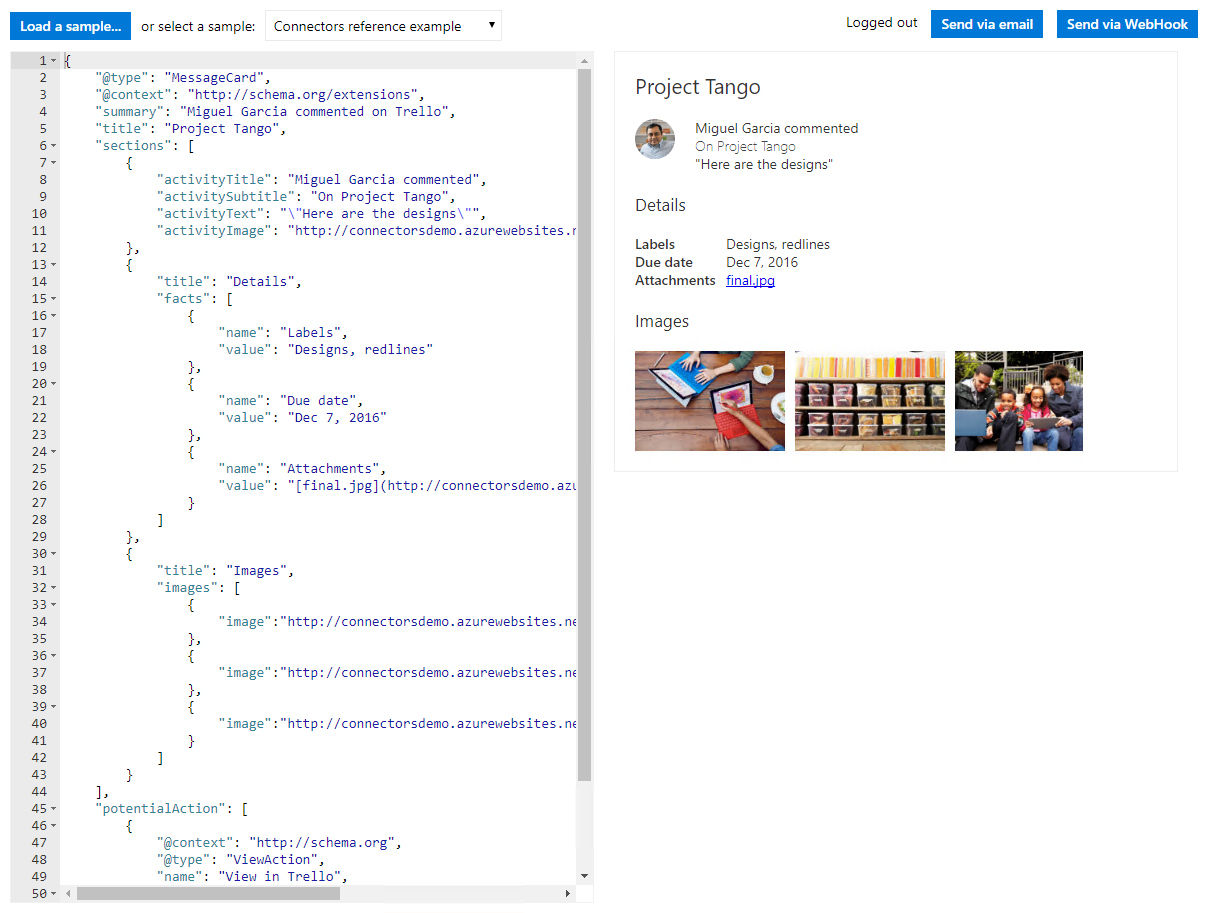
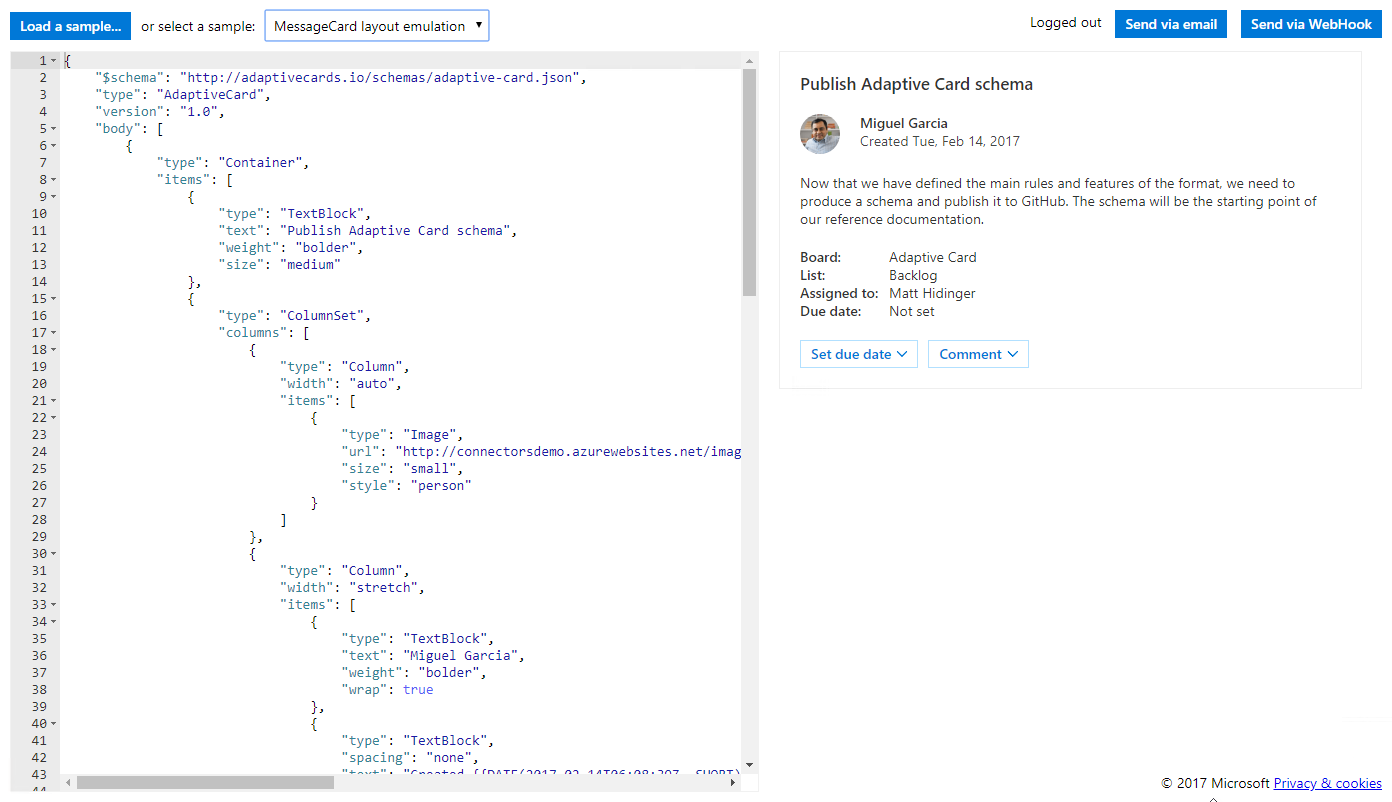
2018q4qa-connactmsg-m01:
Update to md files to clean up typos and errors, as well as fix links to use standard MD language.  Updated two screen shots because of changes to message card playground (MCP), included note about adding "summary" property to sample cards in MCP if the webhook test throws an error, due to the new sample adaptive cards not having that property in them.

diff --git a/ConnectorActionableMsgs/01 Build a basic Connector/Lab.md b/ConnectorActionableMsgs/01 Build a basic Connector/Lab.md
@@ -4,9 +4,9 @@ In this lab, you will learn the steps to create and send connector cards to Offi
 
 ## In this lab
 
-1. [Create a card payload and submit it via an incoming webhook](#exercise1)
-1. [Add functionality to an existing web site](#exercise2)
-1. [Sideload connector to Microsoft Teams](#exercise3)
+1. [Create a card payload and submit it via an incoming webhook](#Exercise_1:_Create_a_card_payload_and_submit_it_via_an_incoming_webhook)
+1. [Add functionality to an existing web site](#Exercise_2:_Add_connector_functionality_to_existing_website)
+1. [Sideload connector to Microsoft Teams](#Exercise_3:_Sideload_the_Connector_to_Microsoft_Teams)
 
 ## Prerequisites
 
@@ -25,8 +25,6 @@ This lab uses [ngrok](https://ngrok.com) for tunneling publicly-available HTTPS 
 #### Code editors
 
 The steps and code samples in this lab use [Visual Studio 2017](https://www.visualstudio.com/) for websites using C#.
-
-<a name="exercise1"></a>
 
 ## Exercise 1: Create a card payload and submit it via an incoming webhook
 
@@ -60,8 +58,12 @@ In this exercise, you will copy an example card from the Message Card Playground
 
     ![Screenshot of message card sample](Images/Exercise1-04.png)
 
-    > Note: The image in this lab uses the **Connectors reference example**, but that is not required.
+    > Note: The image in this lab uses the **MessageCard layout emulation**, but that is not required.
 
+    >Note: If you get an error that the post request failed, "Error: Summary or Text is required". Please add the following property to the JSON sample right under the "version" property and before the "body" property.
+    ```html
+    "summary", "Your Subject Goes Here"
+    ```
 1. After selecting an example, choose **Send via WebHook**.
 1. Enter the URL copied earlier from the Group Connector configuration panel.
 1. Select **OK**. The card will display in the Microsoft Outlook group conversation display. (You may have to select the **New Activity** indicator to see the card.)
@@ -85,8 +87,6 @@ It is not necessary to use the playground website to send test messages. Any fac
     ![Screenshot of PowerShell command](Images/Exercise1-06.png)
 
     > The `Invoke-RestMethod` cmdlet will return **1** to indicate success.
-
-<a name="exercise2"></a>
 
 ## Exercise 2: Add connector functionality to existing website
 
@@ -298,7 +298,7 @@ This exercise will add connector functionality to an existing website. First, a 
 
 1. Press **F5** to build and run the project. Verify that the setup page is available by appending `/connector/setup` to the localhost URL. In this example `http://localhost:20455/connector/setup`.
 
-    ![Screenshot of project URL](Images/Exercise2-03.png)
+    ![Screenshot of setup page](Images/Exercise2-03.png)
 
 1. Stop debugging.
 
@@ -310,11 +310,7 @@ This exercise will add connector functionality to an existing website. First, a 
 
     >Note: If this were a real solution you would want to enable SSL Encryption (by changing the value to true) because the connector requires it.  During testing ngrok is handling the HTTPS->HTTP redirection.
 
-    ```html
-    <p align="center">
-        <img src="Images/Exercise2-04.png">
-    </p>
-    ```
+    ![Screenshot of project URL](Images/Exercise2-04.png)
 
 1. Open a new **Command Prompt** window.
 
@@ -324,11 +320,7 @@ This exercise will add connector functionality to an existing website. First, a 
 
 1. The ngrok application will fill the entire prompt window. Make note of the forwarding address using HTTPS. This address is required in the next step.
 
-    ```html
-    <p align="center">
-    <img src="Images/Exercise2-05.png">
-    </p>
-    ```
+    ![Screenshot of ngrok command prompt](Images/Exercise2-05.png)
 
 1. Minimize the ngrok Command Prompt window. It is no longer referenced in this lab, but it must remain running.
 
@@ -379,8 +371,6 @@ Following the steps found on [docs.microsoft.com](https://docs.microsoft.com/en-
     ![Screenshot of welcome message from Connector](Images/Exercise2-09.png)
 
 This completes Exercise 2.
-
-<a name="exercise3"></a>
 
 ## Exercise 3: Sideload the Connector to Microsoft Teams
 
@@ -437,7 +427,7 @@ The Connector is now sideloaded into the Microsoft Teams application.
 
     ![Screenshot of connectors list in Microsoft Teams](Images/Exercise3-06.png)
 
-1. An dialog window is shown with the general and notification information described on the Connector Developer portal. Select the **Visit site to install** button.
+1. A dialog window is shown with the general and notification information described on the Connector Developer portal. Select the **Visit site to install** button.
 
 <<<<<<< HEAD
 <<<<<<< HEAD

diff --git a/ConnectorActionableMsgs/01 Build a basic Connector/Demos/02-webconnector/Readme.md b/ConnectorActionableMsgs/01 Build a basic Connector/Demos/02-webconnector/Readme.md
@@ -2,7 +2,7 @@
 
 This demo adds connector functionality to an existing website. First, a new website must be created. The following steps create a default MVC website and walk through the steps for adding a connector. All code can be found in the [Lab Files](../../Lab%20Files) folder, which was based on an application with the name **WebApplication1**.
 
-To run this demo, perfom the following steps:
+To run this demo, perform the following steps:
 
 1. Open **Visual Studio 2017**
 
@@ -210,11 +210,11 @@ To run this demo, perfom the following steps:
 
 1. Press **F5** to build and run the project. Verify that the setup page is available by appending `/connector/setup` to the localhost URL. In this example `http://localhost:20455/connector/setup`.
 
-    ![Screenshot of project URL](../../Images/Exercise2-03.png)
+    ![Screenshot of setup page](../../Images/Exercise2-03.png)
 
 1. Stop debugging.
 
-### Run the ngrok secure tunnel application
+## Run the ngrok secure tunnel application
 
 1. Choose the **csproj** file and select **F4** to display the Properties pane.
 
@@ -222,11 +222,7 @@ To run this demo, perfom the following steps:
 
     >Note: If this were a real solution you would want to enable SSL Encryption (by changing the value to true) because the connector requires it.  During testing ngrok is handling the HTTPS->HTTP redirection.
 
-    ```html
-    <p align="center">
-        <img src="Images/Exercise2-04.png">
-    </p>
-    ```
+    ![Screenshot of project URL](Images/Exercise2-04.png)
 
 1. Open a new **Command Prompt** window.
 
@@ -236,15 +232,11 @@ To run this demo, perfom the following steps:
 
 1. The ngrok application will fill the entire prompt window. Make note of the forwarding address using HTTPS. This address is required in the next step.
 
-    ```html
-    <p align="center">
-    <img src="Images/Exercise2-05.png">
-    </p>
-    ```
+    ![Screenshot of ngrok command prompt](Images/Exercise2-05.png)
 
 1. Minimize the ngrok Command Prompt window. It is no longer referenced in this lab, but it must remain running.
 
-### Register the connector
+## Register the connector
 
 Following the steps found on [docs.microsoft.com](https://docs.microsoft.com/en-us/outlook/actionable-messages/connectors-dev-dashboard#build-your-own-connector), register a connector for Office 365. Make sure you are using an account that has access to Microsoft Outlook to test later.
 

diff --git a/ConnectorActionableMsgs/01 Build a basic Connector/Demos/03-teams/Readme.md b/ConnectorActionableMsgs/01 Build a basic Connector/Demos/03-teams/Readme.md
@@ -2,7 +2,7 @@
 
 To complete this demo, the prerequisites for developing Apps for Microsoft Teams must be completed. The setup steps are detailed on the [Getting Started page](https://msdn.microsoft.com/en-us/microsoft-teams/setup). Pay special attention to the sections **Prepare your Office 365 tenant** and **Use Teams App Studio**.
 
-To run this demo, perfom the following steps:
+To run this demo, perform the following steps:
 
 ## Sideload app into Microsoft Teams
 
@@ -55,7 +55,7 @@ The Connector is now sideloaded into the Microsoft Teams application.
 
     ![Screenshot of connectors list in Microsoft Teams](../../Images/Exercise3-06.png)
 
-1. An dialog window is shown with the general and notification information described on the Connector Developer portal. Select the **Visit site to install** button.
+1. A dialog window is shown with the general and notification information described on the Connector Developer portal. Select the **Visit site to install** button.
 
     ![Screenshot of information dialog in Microsoft Teams](../../Images/Exercise3-07.png)
 

diff --git a/ConnectorActionableMsgs/01 Build a basic Connector/Demos/01-card-webhook/Readme.md b/ConnectorActionableMsgs/01 Build a basic Connector/Demos/01-card-webhook/Readme.md
@@ -32,7 +32,12 @@ To run this demo, perform the following steps from the lab:
 
     ![Screenshot of message card sample](../../Images/Exercise1-04.png)
 
-    > Note: The image in this lab uses the **Connectors reference example**, but that is not required.
+    > Note: The image in this lab uses the **MessageCard layout emulation**, but that is not required.
+
+    >Note: If you get an error that the post request failed, "Error: Summary or Text is required". Please add the following property to the JSON sample right under the "version" property and before the "body" property.
+    ```html
+    "summary", "Your Subject Goes Here"
+    ```
 
 1. After selecting an example, choose **Send via WebHook**.
 1. Enter the URL copied earlier from the Group Connector configuration panel.
